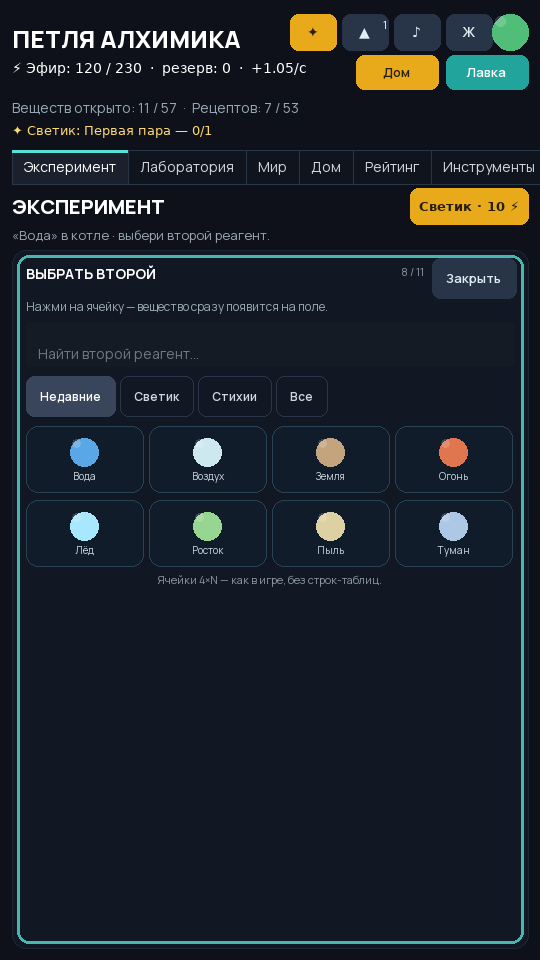
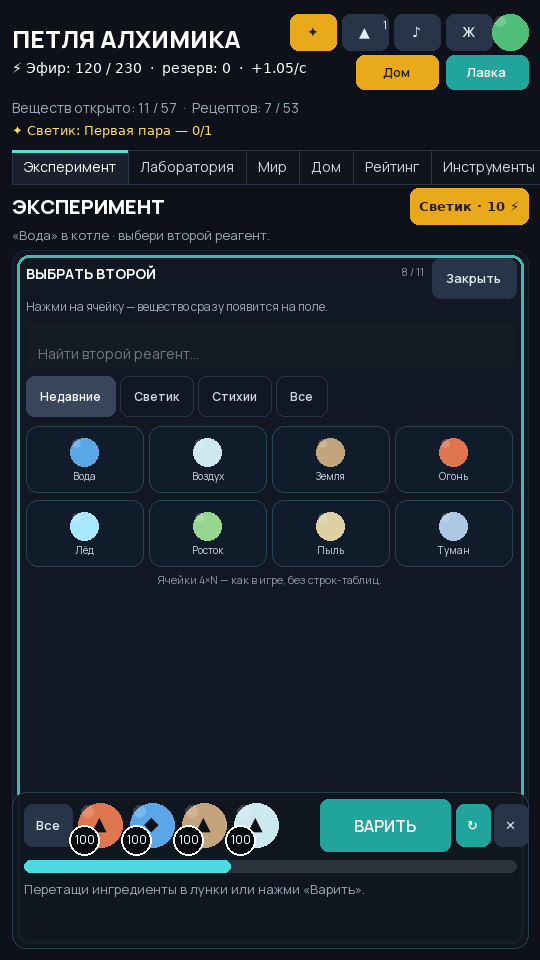
feat(ui): блок 2 «BrewBar» по варианту B (согласовано по мок-кадру)
- счётчик источника — пилюлей внутри орба (не выступает за круг)
- порядок ряда: Все, орбы, ↻, ✕, «ВАРИТЬ» в правом краю (зона большого пальца)
- «Стоп» видна всегда (disabled в простое) — вёрстка строки статуса не скачет
- мок/превью синхронизированы: brewbar() общий для экранов, вариант B в after

Changed region(s): [[0.0296, 0.8125, 0.9778, 1.0]]

diff --git a/alchemists-loop/tools/ui-preview/app.js b/alchemists-loop/tools/ui-preview/app.js
@@ -111,15 +111,22 @@ function screenLab(mode) {
       <div class="inputwrap"><input class="input" placeholder="Поиск вещества по названию…"></div>
     </div>
     <div class="brewbar">
-      <div class="brewrow">
-        <button class="btn k0" style="height:42px;padding:0 12px">Все</button>
-        ${orb("#e0764f", 100)}${orb("#5aa7e8", 100)}${orb("#c4a47c", 100)}${orb("#cee8ef", 100)}
-        <button class="btn k1" style="height:52px;padding:0 26px;font-size:16px">ВАРИТЬ</button>
-        <button class="btn k1" style="height:42px;width:44px">↻</button>
-        <button class="btn k0" style="height:42px;width:44px">✕</button>
+      <div class="brow">
+        <button class="btn k0" style="min-width:48px;height:42px">Все</button>
+        ${ORBS.map((o, i) => `<span class="orb src" style="background:radial-gradient(circle at 35% 30%, ${o.hi}, ${o.lo})">${i === 1 ? "◆" : "▲"}<span class="cnt${mode === "after" ? " in" : ""}">100</span></span>`).join("")}
+        ${mode === "after"
+          ? `<button class="btn k1" style="min-width:40px;height:42px">↻</button>
+             <button class="btn k0" style="min-width:40px;height:42px">✕</button>
+             <button class="btn k1" style="height:52px;padding:0 20px;font-size:15px;margin-left:auto">ВАРИТЬ</button>`
+          : `<button class="btn k1" style="height:52px;padding:0 26px;font-size:16px">ВАРИТЬ</button>
+             <button class="btn k1" style="min-width:34px;height:42px">↻</button>
+             <button class="btn k0" style="min-width:34px;height:42px">✕</button>`}
       </div>
-      <div class="prog"><i></i></div>
-      <div class="statusrow">Перетащи ингредиенты в лунки или нажми «Варить».</div>
+      <div class="prog"><i style="width:42%"></i></div>
+      <div class="brow" style="margin-top:8px">
+        <span class="bstatus">Перетащи ингредиенты в лунки или нажми «Варить».</span>
+        ${mode === "after" ? `<button class="btn k1" style="min-width:76px;height:32px;opacity:.45" disabled>Стоп</button>` : ""}
+      </div>
     </div>
   </div>`;
 }

diff --git a/alchemists-loop/tools/ui-preview/render_shots.py b/alchemists-loop/tools/ui-preview/render_shots.py
@@ -331,40 +331,35 @@ def screen_lab(mode):
     else:
         rrect(img, [24, y, W - 24, y + 44], 4, fill=(21, 27, 37))
         text(img, (36, y + 22), "Поиск вещества по названию…", size=14, color=(109, 120, 131))
-    # BrewBar
-    by = H - (168 if mode == "before" else 190)
-    rrect(img, [12 if mode == "before" else 10, by, W - (12 if mode == "before" else 10), H - (12 if mode == "before" else 10)],
-          14 if mode == "before" else 18, fill=(16, 22, 31, 242), outline=(36, 64, 74) if mode == "before" else C["line"])
-    if mode == "before":
-        ry = by + 12
-        button(img, [24, ry, 48, 42], "Все", 0, mode)
-        for i, col in enumerate([(224, 118, 79), (90, 167, 232), (196, 164, 124), (206, 232, 239)]):
-            orb(img, 100 + i * 52, ry + 21, 22, col, glyph="◆" if i == 1 else "▲", count=100, mode=mode)
-        button(img, [320, ry - 5, 130, 52], "ВАРИТЬ", 1, mode, size=16)
-        button(img, [456, ry, 34, 42], "↻", 1, mode)
-        button(img, [494, ry, 34, 42], "✕", 0, mode)
-        ry += 56
-        rrect(img, [24, ry, W - 24, ry + 12], 6, fill=(41, 50, 61))
-        rrect(img, [24, ry, 24 + int((W - 48) * 0.42), ry + 12], 6, fill=(77, 217, 226))
-        ry += 20
-        text(img, (24, ry), "Перетащи ингредиенты в лунки или нажми «Варить».", size=13, color=C["ink2"])
-    else:
-        ry = by + 14
-        button(img, [24, ry, 48, 44], "Все", 0, mode)
-        for i, col in enumerate([(224, 118, 79), (90, 167, 232), (196, 164, 124), (206, 232, 239)]):
-            orb(img, 104 + i * 56, ry + 22, 23, col, count=100, mode=mode)
-        ry += 56
-        text(img, (24, ry), "КОТЁЛ", size=11, weight=600, color=(89, 224, 214), tracking=0.7)
-        rrect(img, [24, ry + 16, 372, ry + 26], 5, fill=C["bg3"], outline=C["line"])
-        rrect(img, [24, ry + 16, 24 + int(348 * 0.42), ry + 26], 5, fill=C["accent"])
-        button(img, [384, ry - 6, 132, 52], "ВАРИТЬ", 1, mode, icon_name="cauldron", size=15)
-        ry += 34
-        y2 = ry + 18
-        text(img, (24, y2 + 14), "Перетащи ингредиенты в лунки или нажми «Варить».", size=13, color=C["ink2"])
-        button(img, [368, y2, 44, 44], "", 1, mode, icon_name="repeat")
-        button(img, [420, y2, 44, 44], "", 0, mode, icon_name="x")
-        button(img, [472, y2, 44, 44], "Стоп", 1, mode, disabled=True, size=12)
+    brewbar(img, tm)
     return img
+
+
+def brewbar(img, bm):
+    """Нижняя панель варки. bm: "before" | "after" (блок 2, вариант B)."""
+    by = H - 168
+    rrect(img, [12, by, W - 12, H - 12], 14, fill=(16, 22, 31, 242), outline=(36, 64, 74))
+    ry = by + 12
+    button(img, [24, ry, 48, 42], "Все", 0, "before")
+    for i, col in enumerate(ORBS):
+        orb(img, 100 + i * 52, ry + 21, 22, col, glyph="◆" if i == 1 else "▲",
+            count=100, mode="after" if bm == "after" else "before")
+    if bm == "after":
+        # вариант B: ↻ и ✕ перед «ВАРИТЬ», кнопка в правом краю ряда
+        button(img, [320, ry, 40, 42], "↻", 1, "before")
+        button(img, [366, ry, 40, 42], "✕", 0, "before")
+        button(img, [412, ry - 5, 104, 52], "ВАРИТЬ", 1, "before", size=15)
+    else:
+        button(img, [320, ry - 5, 130, 52], "ВАРИТЬ", 1, "before", size=16)
+        button(img, [456, ry, 34, 42], "↻", 1, "before")
+        button(img, [494, ry, 34, 42], "✕", 0, "before")
+    ry += 56
+    rrect(img, [24, ry, W - 24, ry + 12], 6, fill=(41, 50, 61))
+    rrect(img, [24, ry, 24 + int((W - 48) * 0.42), ry + 12], 6, fill=(77, 217, 226))
+    ry += 20
+    text(img, (24, ry), "Перетащи ингредиенты в лунки или нажми «Варить».", size=13, color=BEFORE["ink2"])
+    if bm == "after":
+        button(img, [W - 24 - 76, ry - 6, 76, 32], "Стоп", 1, "before", disabled=True, size=12)
 
 
 def screen_experiment(mode):
@@ -415,6 +410,7 @@ def screen_experiment(mode):
         text(img, (cx + cw / 2, cy + 50), nm, size=10, color=(207, 216, 224), anchor="mm")
     y += 2 * 74 + 6
     text(img, (W / 2, y), "Ячейки 4×N — как в игре, без строк-таблиц.", size=11, color=C["ink3"], anchor="mm")
+    brewbar(img, tm)
     return img
 
 
